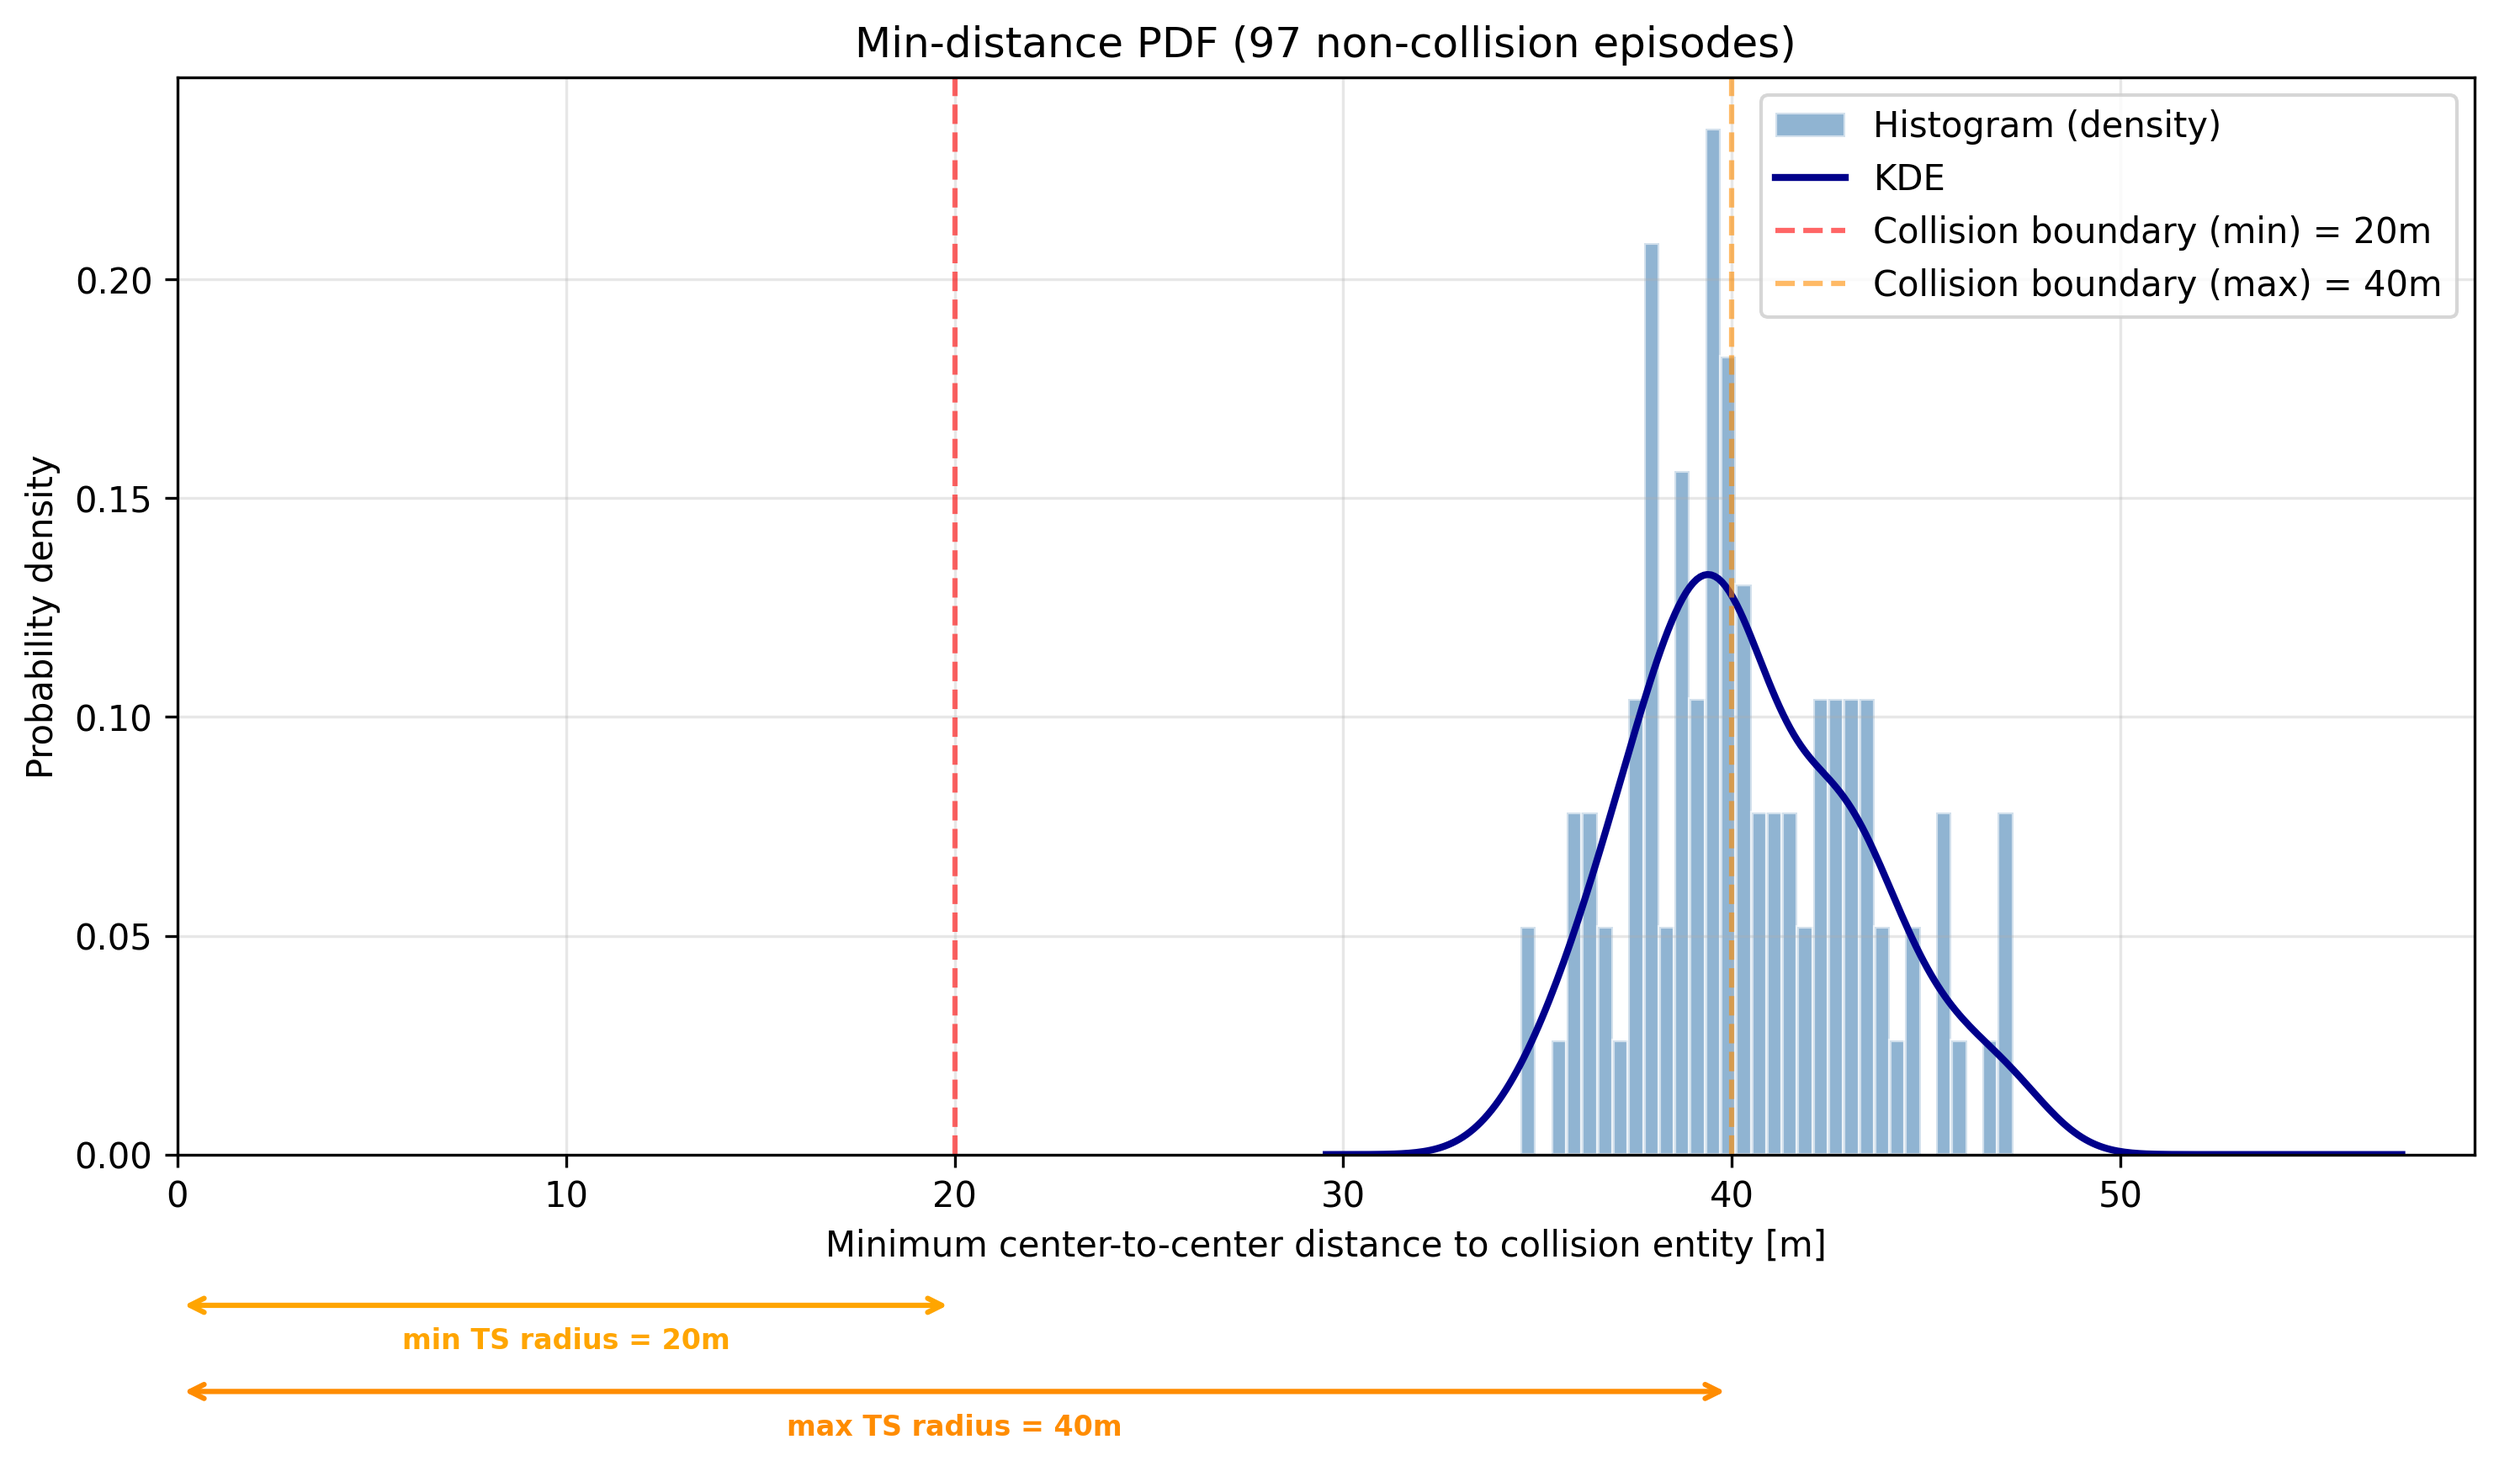
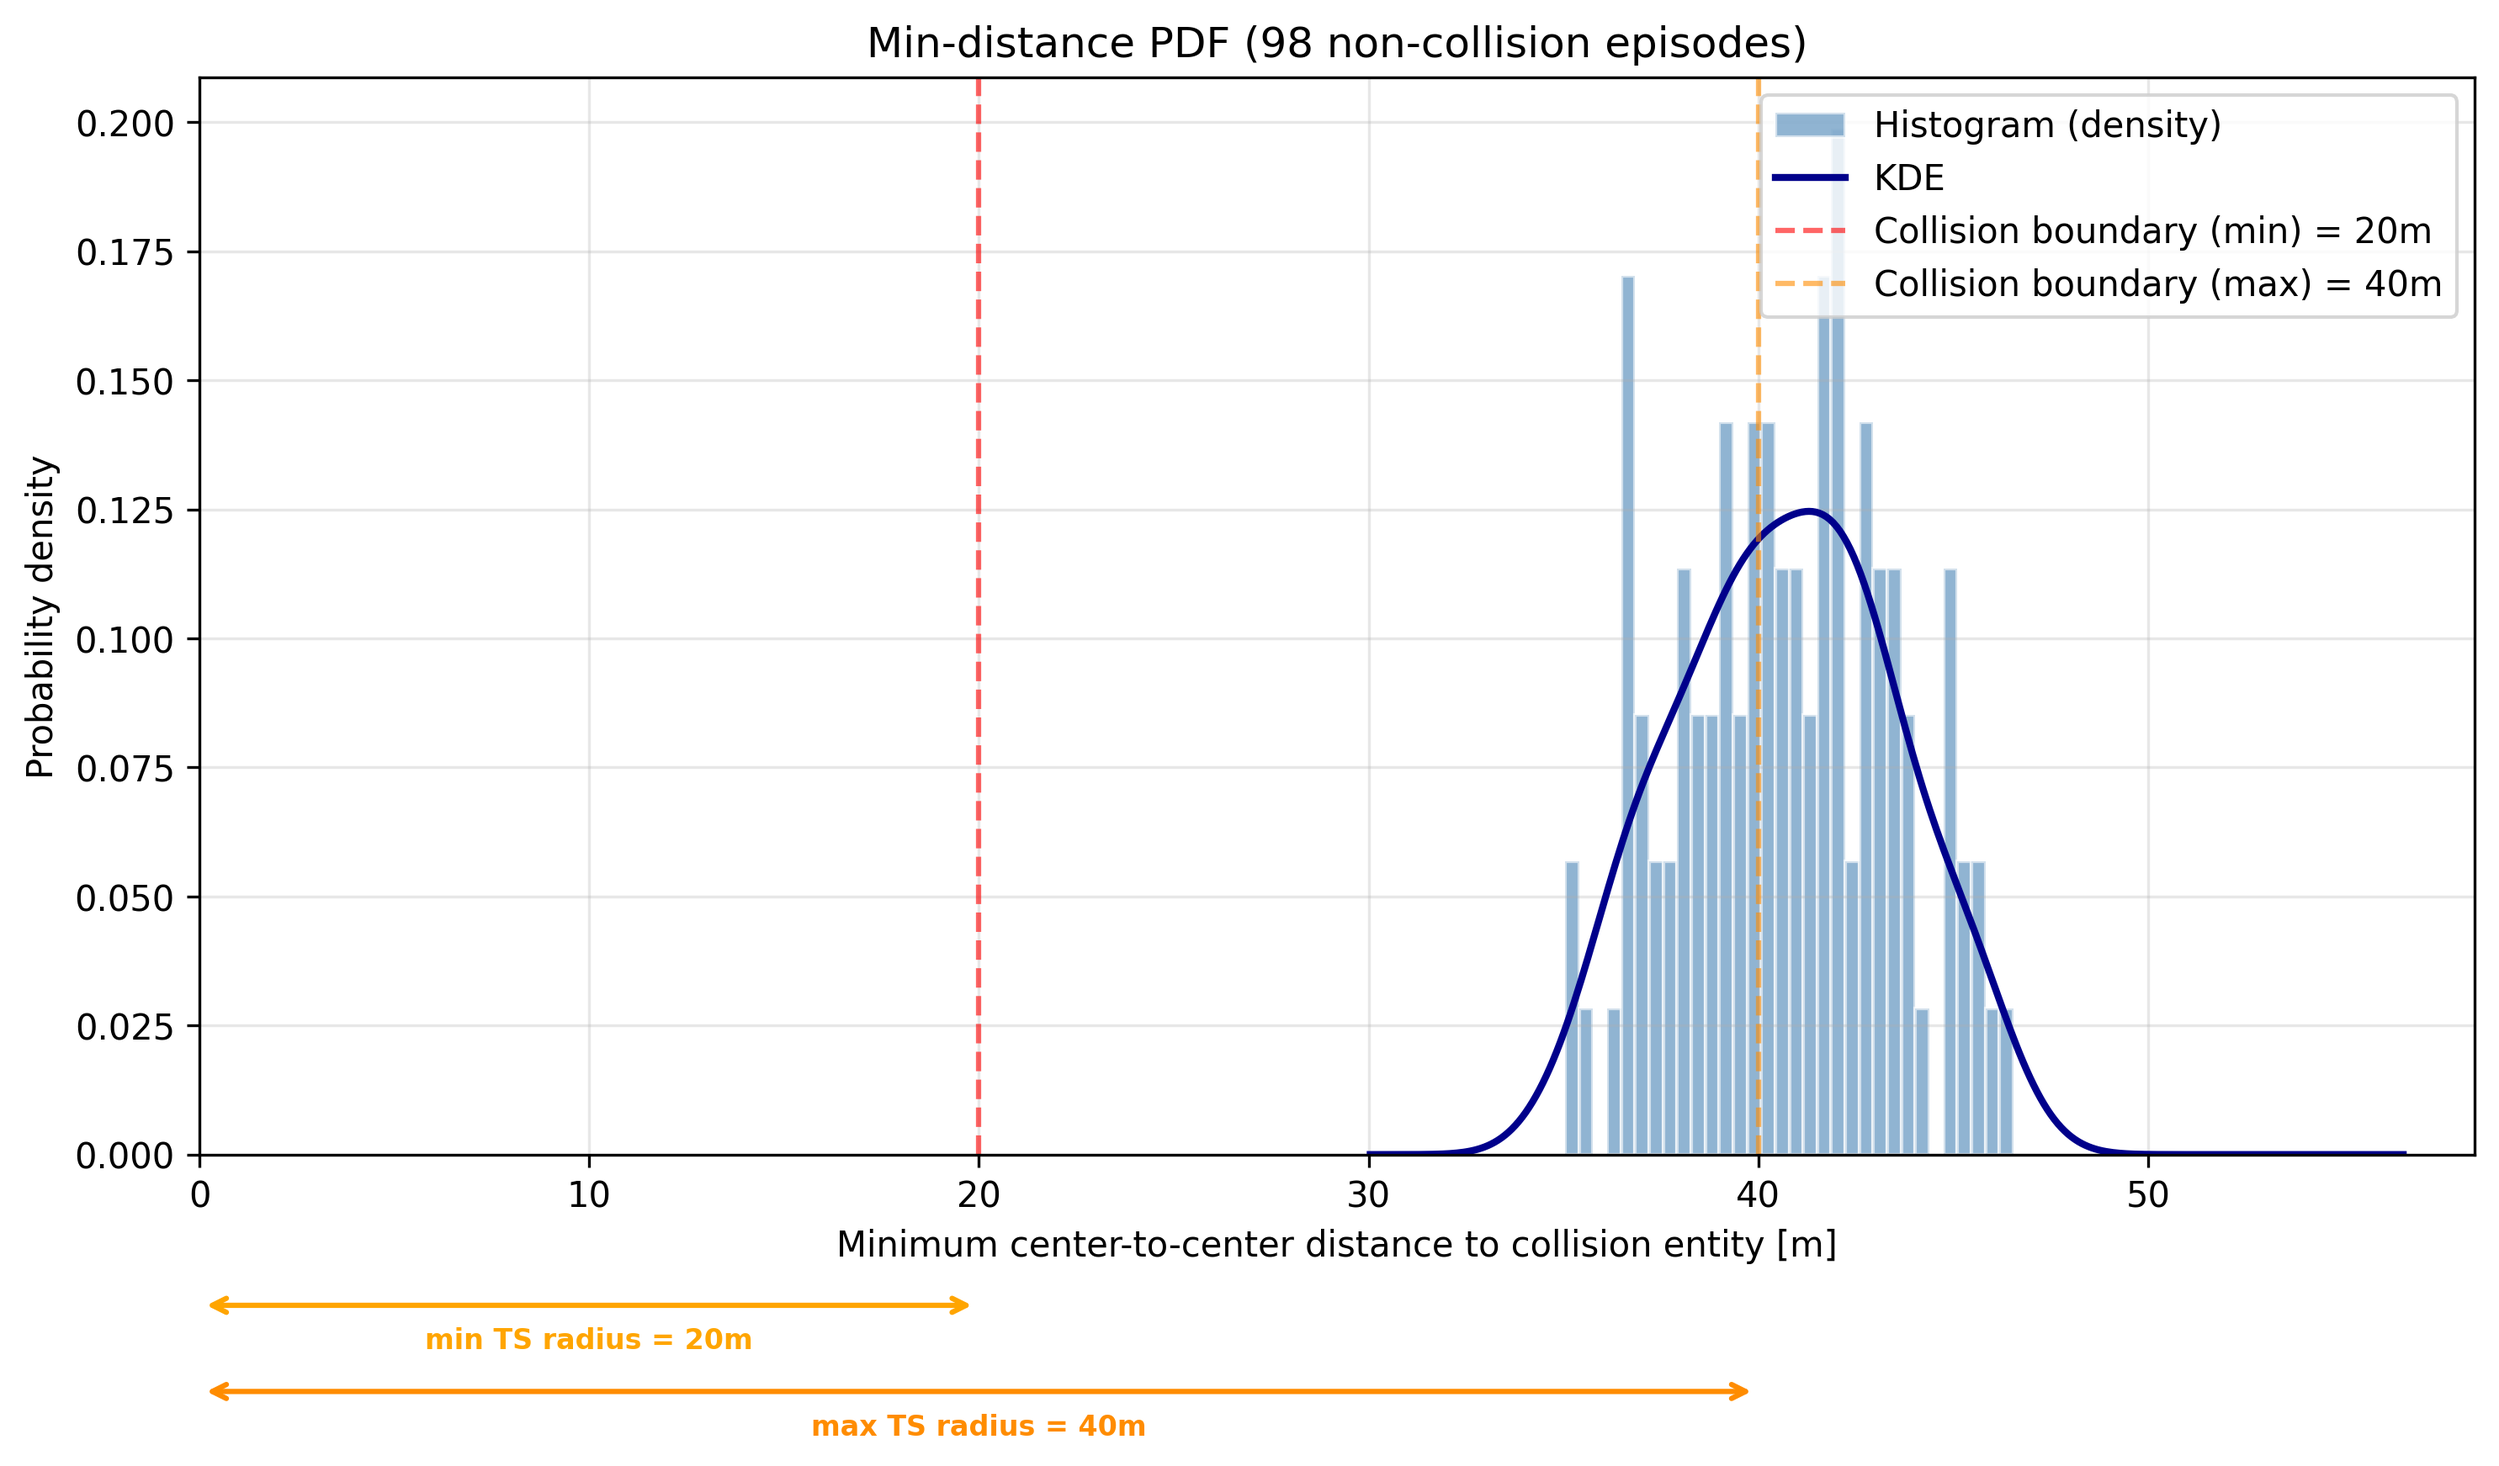
added OS and TS passing visualization

diff --git a/src/fw/environments/py_sim_colav_env.py b/src/fw/environments/py_sim_colav_env.py
@@ -72,7 +72,7 @@ class PySimColavEnv(PySimEnv):
             use_polar_scan: bool = True,
             enable_variable_ship_size: bool = True,
             eval: bool = True,
-            eval_scenario: Optional[str] = "head-on", # "static", "overtaking", "head-on"
+            eval_scenario: Optional[str] = "overtaking", # "static", "overtaking", "head-on"
             eval_obstacle_count: int = 5,
             num_ships: int = 1
     ) -> None:
@@ -127,6 +127,9 @@ class PySimColavEnv(PySimEnv):
         self._colreg_correct = [0] * self.num_ships
         self._colreg_initial_heading = [None] * self.num_ships
 
+        # Passing snapshot: list of dicts with OS/TS positions at the moment of passing
+        self._passing_snapshots: list[dict] = []
+
         bin_width = float(self.polar_fov) / float(self.polar_n_sectors)
         self._polar_rel_angles = (
                 -(self.polar_fov / 2.0) + (np.arange(self.polar_n_sectors, dtype=np.float32) + 0.5) * bin_width
@@ -160,7 +163,7 @@ class PySimColavEnv(PySimEnv):
         # Per-ship scenario classifiers
         self.scenario_classifiers = [ScenarioClassifier() for _ in range(self.num_ships)]
         # Track which TS index the one-time COLREG reward was already given for (None = not given)
-        self._colreg_reward_given_for_ts = [None] * self.num_ships
+        self.ts_passed = [None] * self.num_ships
 
         self._base_initial_ship_pos = self.initial_ship_pos.copy()
         self._base_target_pos = self.target_pos.copy()
@@ -540,7 +543,7 @@ class PySimColavEnv(PySimEnv):
                 terminations[i] = self.phys_sims[i].state.terminated
                 truncations[i] = self.phys_sims[i].state.truncated
 
-        # Mark collision so the min distance for this episode is excluded from the png
+        # Mark collision so the min distance for this episode is excluded from the PDF
         if any(self._last_collision_info[i].get("collision") for i in range(self.num_ships)):
             self._current_episode_collided = True
 
@@ -616,12 +619,38 @@ class PySimColavEnv(PySimEnv):
 
                 # Logging only — no reward effect
                 side = ts.ts_side_from_os_perspective(os_pos, os_heading)
-                if ts.passed_by_os(os_pos, os_heading) and self._colreg_reward_given_for_ts[i] != ts_idx:
-                    self._colreg_reward_given_for_ts[i] = ts_idx
+                if ts.passed_by_os(os_pos, os_heading) and self.ts_passed[i] != ts_idx:
+                    self.ts_passed[i] = ts_idx
                     if side == "port":
                         self._colreg_correct[i] += 1
                     elif side == "starboard":
                         self._colreg_violations[i] += 1
+
+                    # Record passing snapshot for rendering
+                    self._passing_snapshots.append({
+                        "os_pos": np.copy(os_pos),
+                        "ts_pos": ts_pos.copy(),
+                        "dist": dist,
+                        "scenario": scenario,
+                    })
+
+            elif scenario == "overtaking":
+                side = ts.ts_side_from_os_perspective(os_pos, os_heading)
+                if ts.passed_by_os(os_pos, os_heading) and self.ts_passed[i] != ts_idx:
+                    self.ts_passed[i] = ts_idx
+                    if side == "port":
+                        self._colreg_correct[i] += 1
+                    elif side == "starboard":
+                        self._colreg_violations[i] += 1
+
+                    # Record passing snapshot for rendering
+                    dist = ts.distance_to_point(os_pos)
+                    self._passing_snapshots.append({
+                        "os_pos": np.copy(os_pos),
+                        "ts_pos": ts.get_position().copy(),
+                        "dist": dist,
+                        "scenario": scenario,
+                    })
 
         # ------------------------------------------------------------------ #
         #  Collision detection                                                 #
@@ -713,6 +742,9 @@ class PySimColavEnv(PySimEnv):
         # TS (collision entity) trail lines — created dynamically
         self.ts_trails = []
         self.ts_trail_history = []
+
+        # Passing snapshot artists (afterimages at the moment OS passes TS)
+        self._passing_snapshot_artists = []
 
     def _get_collision_entity_render_key(self):
         """Small hashable signature of current collision-entity layout for render updates."""
@@ -871,6 +903,52 @@ class PySimColavEnv(PySimEnv):
                         [sy, sy + length * np.sin(angle)]
                     )
 
+        # Create artists for any new passing snapshots
+        while len(self._passing_snapshot_artists) < len(self._passing_snapshots):
+            idx = len(self._passing_snapshot_artists)
+            snap = self._passing_snapshots[idx]
+            os_p = snap["os_pos"]
+            ts_p = snap["ts_pos"]
+            dist = snap["dist"]
+
+            # Afterimage markers (hollow, larger)
+            os_marker, = self.ax.plot(
+                [os_p[0]], [os_p[1]], 'o',
+                markersize=12, markerfacecolor='none', markeredgecolor='blue',
+                markeredgewidth=2, zorder=5,
+            )
+            ts_marker, = self.ax.plot(
+                [ts_p[0]], [ts_p[1]], 'o',
+                markersize=12, markerfacecolor='none', markeredgecolor='red',
+                markeredgewidth=2, zorder=5,
+            )
+            # Dashed line between the two
+            dist_line, = self.ax.plot(
+                [os_p[0], ts_p[0]], [os_p[1], ts_p[1]],
+                color='gray', linestyle='--', linewidth=1.2, zorder=4,
+            )
+            # Distance label at midpoint
+            mid_x = (os_p[0] + ts_p[0]) / 2.0
+            mid_y = (os_p[1] + ts_p[1]) / 2.0
+            dist_text = self.ax.text(
+                mid_x, mid_y, f"{dist:.0f}m",
+                fontsize=7, color='gray', fontweight='bold',
+                ha='center', va='bottom', zorder=6,
+            )
+            # OS / TS labels
+            os_label = self.ax.text(
+                os_p[0] + 2, os_p[1] + 2, "OS", fontsize=7, color='blue',
+                fontweight='bold', ha='center', va='top', zorder=6,
+            )
+            ts_label = self.ax.text(
+                ts_p[0] + 2, ts_p[1] + 2, "TS", fontsize=7, color='red',
+                fontweight='bold', ha='center', va='top', zorder=6,
+            )
+
+            self._passing_snapshot_artists.append(
+                (os_marker, ts_marker, dist_line, dist_text, os_label, ts_label)
+            )
+
         # Blit all artists
         try:
             if hasattr(self.fig.canvas, 'blit'):
@@ -879,6 +957,11 @@ class PySimColavEnv(PySimEnv):
                     self.ax.draw_artist(self.os_trails[i])
                 for tl in self.ts_trails:
                     self.ax.draw_artist(tl)
+
+                # Draw passing snapshot afterimages
+                for artists in self._passing_snapshot_artists:
+                    for artist in artists:
+                        self.ax.draw_artist(artist)
 
                 # Draw ships, headings, and beams on top
                 for i in range(self.num_ships):
@@ -1075,10 +1158,17 @@ class PySimColavEnv(PySimEnv):
         # Reset scenario classifiers and COLREG reward tracking
         for clf in self.scenario_classifiers:
             clf.reset()
-        self._colreg_reward_given_for_ts = [None] * self.num_ships
+        self.ts_passed = [None] * self.num_ships
         self._colreg_violations = [0] * self.num_ships
         self._colreg_correct = [0] * self.num_ships
         self._colreg_initial_heading = [None] * self.num_ships
+
+        # Remove passing snapshot artists from the plot and reset
+        for artists in getattr(self, "_passing_snapshot_artists", []):
+            for artist in artists:
+                artist.remove()
+        self._passing_snapshot_artists = []
+        self._passing_snapshots = []
 
         if getattr(self, "enable_obstacles", False):
             if getattr(self, "eval", False):
@@ -1098,15 +1188,12 @@ class PySimColavEnv(PySimEnv):
 
         # Clear trail histories for the new episode
         self.os_trail_history = [[] for _ in range(self.num_ships)]
+        for trail_line in getattr(self, "ts_trails", []):
+            trail_line.remove()
         self.ts_trail_history = []
         self.ts_trails = []
 
-    def finalize_eval_min_distances(self) -> None:
-        """Call after the last evaluation episode to flush the final episode's min distance."""
-        if not self._current_episode_collided and self._current_episode_min_dist < float("inf"):
-            self._episode_min_distances.append(self._current_episode_min_dist)
-
-    def plot_min_distance_png(self, save_path: str = "min_distance.png") -> None:
+    def plot_min_distance_PDF(self, save_path: str = "min_distance_PDF.png") -> None:
         """
         Plot a probability density estimate of the minimum center-to-center
         distance kept to collision entities across non-collision evaluation
@@ -1114,7 +1201,8 @@ class PySimColavEnv(PySimEnv):
 
         Call ``finalize_eval_min_distances()`` first to include the last episode.
         """
-        from scipy.stats import gaussian_kde
+        if not self._current_episode_collided and self._current_episode_min_dist < float("inf"):
+            self._episode_min_distances.append(self._current_episode_min_dist)
 
         distances = np.array(self._episode_min_distances)
         if len(distances) == 0:
@@ -1195,11 +1283,11 @@ class PySimColavEnv(PySimEnv):
 
         ax.set_xlabel("Minimum center-to-center distance to collision entity [m]")
         ax.set_ylabel("Probability density")
-        ax.set_title(f"Min-distance png ({len(distances)} non-collision episodes)")
+        ax.set_title(f"Min-distance PDF ({len(distances)} non-collision episodes)")
         ax.legend(loc="upper right")
         ax.grid(True, alpha=0.3)
 
         plt.tight_layout()
         plt.savefig(save_path, dpi=300, bbox_inches="tight")
-        print(f"Min-distance png saved as '{save_path}'")
+        print(f"Min-distance PDF saved as '{save_path}'")
         plt.close(fig)

diff --git a/src/fw/agent_manager.py b/src/fw/agent_manager.py
@@ -474,9 +474,8 @@ class AgentManager:
                 print(f"COLREG violation count: {colreg_violation_count}")
 
                 # plot min distances kept during episodes if available
-                if hasattr(env, "finalize_eval_min_distances"):
-                    env.finalize_eval_min_distances()
-                    env.plot_min_distance_png(f'{self.agent.model_dir}/min_distance.png')
+                if hasattr(env, "plot_min_distance_PDF"):
+                    env.plot_min_distance_PDF(f'{self.agent.model_dir}/min_distance_PDF.png')
 
                 try:
                     # AirSimEnv has no obstacles/overall for matplotlib — skip trajectory plot.

diff --git a/src/fw/config.py b/src/fw/config.py
@@ -70,7 +70,7 @@ CONFIG_PARAMETERS = {
     'scenario': "DDShip_scenario1_nowindnocurrent",
     'ship_model': ShipModel.MYZAKO_DEFAULT,
     'dynamics_model': Model.FOSSEN,
-    'live_animation': False,
+    'live_animation': True,
     # AirSim settings are now in airsim.config.airsim_config
     # Use get_airsim_config() to access them.
 }
